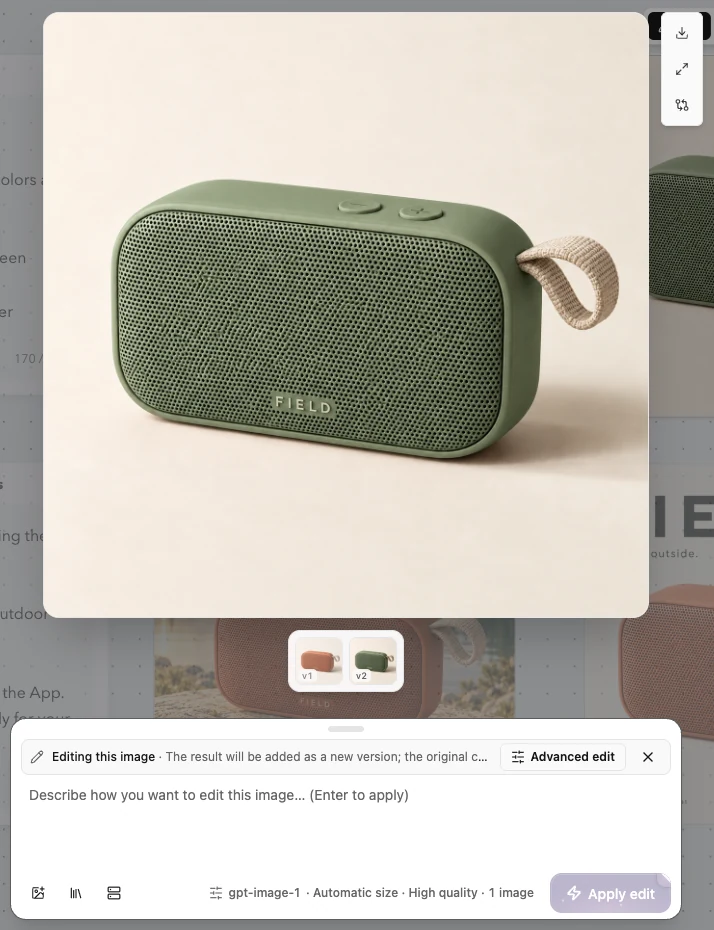
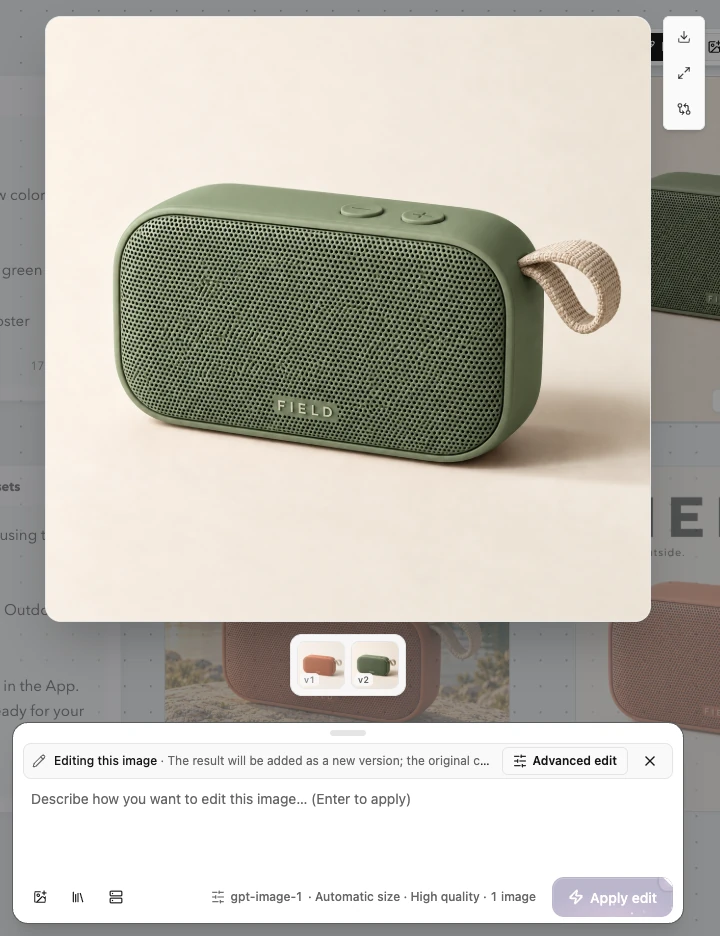
docs: refresh bilingual README editing screenshots and publication log

diff --git a/docs/marketing/publications.md b/docs/marketing/publications.md
@@ -149,7 +149,7 @@ X、小红书、Hacker News、Linux.do、开源中国、少数派暂未找到已
 - 内容：统一为“图片、视频与创作工作流，一张画布串起来”；保留自选模型、服务商计费及实际能力边界。
 - 文案基准：[中英文对外文案](messaging.md)。
 - 更新日期 / 时区：2026-10-19 / Asia/Shanghai。
-- 状态：官网介绍与SEO文案已随WEB-004提交并上线；README与CLI等其余文案仍为本地修改，尚未提交或部署。未修改已发布的社区帖子。
+- 状态：官网介绍与SEO文案已随WEB-004提交并上线；README与CLI等其余文案已随提交6547624推送至GitHub main。未修改已发布的社区帖子。
 - 指标及采集日期：未采集。
 
 ### WEB-003 · 全站语言切换与浏览器语言识别
@@ -172,4 +172,25 @@ X、小红书、Hacker News、Linux.do、开源中国、少数派暂未找到已
 - 状态：已发布。2026-10-19 GitHub Pages部署与线上SEO审计通过，浏览器确认双语首页、英文视频场景与完整体验、6个版本译文及中文版FIELD案例交互已生效。
 - 核验依据：13项网站测试、类型检查、构建及40页SEO通过；1440/390/320英文场景、体验三步、对比、提示词、无障碍标签与控制台检查通过；6个版本译文及中文案例状态通过。
 - 部署：https://github.com/Davied-H/iterlay/actions/runs/39264677762
+- 指标及采集日期：未采集。
+
+### WEB-005 · 克制动效语言开关
+
+- 永久链接：https://davied-h.github.io/iterlay/
+- 内容：右上角改为中/EN滑块开关，灰色轨道、白色圆钮、260ms自然减速滑动与180ms正文轻淡入；支持键盘、减少动态效果、快速切换及阅读位置保留。
+- 发布日期 / 时区：2026-10-19 / Asia/Shanghai；不涉及 App 版本发布。
+- 提交：fc2b02f（开关与快速切换）、02f46e35a12f520721aa8d8bcc718ab234310542（阅读位置保留）；基础样式随并行提交6547624进入main。
+- 状态：已发布。2026-10-19最终Pages部署及线上SEO审计成功；线上验证开关、260ms动效、键盘、减少动态效果和600px阅读位置保留通过。
+- 核验依据：13项测试、类型检查、构建与40页SEO通过；1440/820/390/320布局固定无溢出，鼠标/Enter/空格、参数/锚点与偏好记忆通过；实际逐帧测得圆钮从0平滑过渡至22px，减少动态效果时过渡为0s，切换前后滚动位置600px保持。
+- 部署：https://github.com/Davied-H/iterlay/actions/runs/39266403814
+- 指标及采集日期：未采集。
+
+### WEB-006 · README 当前编辑界面截图
+
+- 永久链接：https://github.com/Davied-H/iterlay#readme
+- 内容：中英文 README 分别使用当前语言的真实编辑界面截图，展示 FIELD 音箱预览、v1/v2 版本入口与底部编辑输入栏；同步截图制作说明。
+- 更新日期 / 时区：2026-10-19 / Asia/Shanghai；不涉及 App 版本发布。
+- 来源：当前代码的 pnpm dev 网页模式，独立开发数据；两张 WebP 均为720×936，未调用生成模型。
+- 状态：本地截图已更新；GitHub main 包含本条记录时即已同步源码与截图，尚未重新核验 GitHub 网页渲染。
+- 核验依据：逐张视觉检查截图内容与语言、WebP尺寸检查及git diff --check通过。
 - 指标及采集日期：未采集。

diff --git a/docs/readme-example.md b/docs/readme-example.md
@@ -28,7 +28,7 @@
 ## README 截图
 
 - [画布总览](assets/readme/field-canvas.webp)：1600 × 1000，完整网页视口。
-- [图片编辑助手](assets/readme/field-edit.webp)：740 × 940，网页局部截图。
+- [图片编辑界面](assets/readme/field-edit.webp)：720 × 936，当前网页局部截图（2026-10-19 更新）。
 - [版本滑块对比](assets/readme/field-versions.webp)：730 × 682，网页局部截图。
 
 截图使用 WebP 压缩，共约 317 KiB。只做截图取景与格式压缩，没有重绘界面。旧官网图片仍保留，README 改用此次新增的独立素材。
@@ -40,10 +40,14 @@
 英文 README 不再复用中文界面截图。使用 `pnpm dev` 网页模式，在独立的 `tmp/readme-en/user-data/` 开发工作区复用 FIELD 原有生成素材与版本链，将界面切换为英文，并翻译画板名称、两个说明节点与连线标签后重新拍摄。未重新调用图片模型，也未重绘界面或伪造助手回复。
 
 - [英文画布总览](assets/readme/field-canvas.en.webp)：1600 × 1000。
-- [英文图片编辑工作区](assets/readme/field-edit.en.webp)：714 × 930，展示实际编辑预览、版本入口及输入栏，不包含中文截图中的助手对话。
+- [英文图片编辑工作区](assets/readme/field-edit.en.webp)：720 × 936，展示实际编辑预览、版本入口及输入栏。
 - [英文版本对比](assets/readme/field-versions.en.webp)：688 × 710，使用已有橙色原图与绿色编辑版本。
 
 三张图仅取景、裁剪和 WebP 压缩。中文 README 继续使用原有中文截图。英文拍摄时发现版本对比的“原图”标签未走翻译，已补用现有翻译函数。
+
+### 2026-10-19：同步当前图片编辑界面
+
+使用当前代码的 `pnpm dev` 网页模式，复用独立 `tmp/readme-en/user-data/` 工作区的 FIELD 素材，分别切换中英文重新拍摄 `field-edit.webp` 和 `field-edit.en.webp`。两张图均为 720 × 936，展示绿色音箱预览、真实 v1 / v2 版本入口及底部直接编辑输入栏，替换旧版图片编辑助手问答面板截图。未发送生成请求、未伪造对话，仅取景与 WebP 压缩。上文对修改目标选择阶段的描述对应最初截图，当前编辑截图不再展示该阶段。
 
 ### 复用与复现
 
